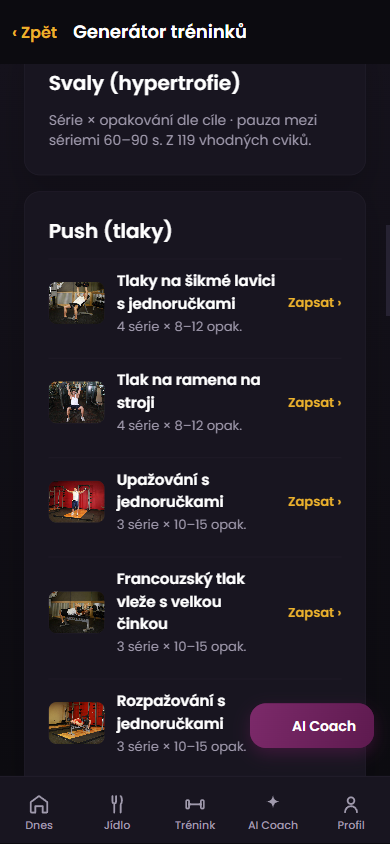
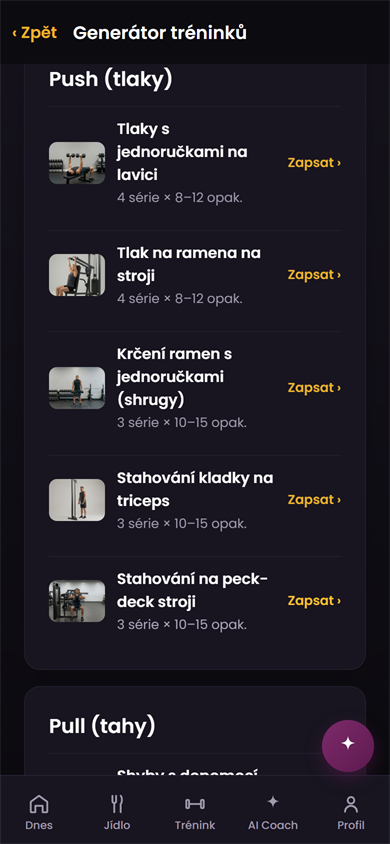
Prodejní strana TC: nový snímek generátoru tréninku (v3)
Nahrazuje assets/app/generator-treninku.png novým záběrem stejné
obrazovky (390x844) s aktuální sadou cviků a novými fotkami, a zvedá
cache-busting ?v=2 na ?v=3, aby si návštěvníci nedrželi starý obrázek.

Obsah snímku odpovídá stávajícímu alt textu (cviky, série, opakování
v tréninkových dnech), text stránky se nemění.

diff --git a/tvuj-coach/index.html b/tvuj-coach/index.html
@@ -274,7 +274,7 @@
         </div>
 
         <figure class="shot">
-            <img src="/assets/app/generator-treninku.png?v=2" alt="Vygenerovaný tréninkový plán v appce Tvůj Coach: cviky, série a opakování rozdělené do tréninkových dnů." width="390" height="844" loading="lazy" decoding="async">
+            <img src="/assets/app/generator-treninku.png?v=3" alt="Vygenerovaný tréninkový plán v appce Tvůj Coach: cviky, série a opakování rozdělené do tréninkových dnů." width="390" height="844" loading="lazy" decoding="async">
             <figcaption>Plán ti appka napíše podle toho, kde cvičíš a kolik dní v týdnu máš.</figcaption>
         </figure>
 
